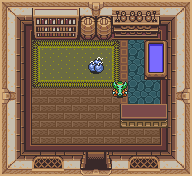
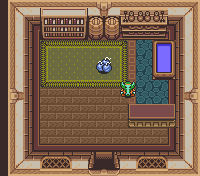
[add]back maps

diff --git a/include/map.h b/include/map.h
@@ -12,18 +12,21 @@
     #include "sprites.h"
     #define MAX_Y 16
     #define MAX_X 30
-    #define TEXTURES_NB 30
+    #define TEXTURES_NB 34
 
-enum {OUT_HOUSE, FIRST_PATH, BATTLE_PATH, SANCTUARY_ENTRY, HOUSE_INTERIOR_MAP,
-SHOP_INTERIOR_MAP};
+enum {OUT_HOUSE, FIRST_PATH, BATTLE_PATH, HOUSE_INTERIOR_MAP, SANCTUARY_ENTRY,
+SHOP_INTERIOR_MAP, DUNGEON_ENTRY_MAP, SOKOBAN_MAP, OUT_SHOP};
 static const char *MAP_PATHS[] = {"maps/out_house.front",
-"maps/first_path.front", "maps/battle_path.front", "maps/sanctuary_entry.front",
-"maps/house_interior.front", "maps/shop_interior.front"};
+"maps/first_path.front", "maps/battle_path.front", "maps/house_interior.front",
+"maps/sanctuary_entry.front", "maps/shop_interior.front",
+"maps/dungeon_entry.front", "maps/sokoban_puzzle.front",
+"maps/out_house.front"};
 enum {GROUND, WALL_UP, WALL_LEFT, WALL_DOWN, WALL_RIGHT, WALL_NO, WALL_SO,
 WALL_SE, WALL_NE, BUSH, CUT_BUSH, GRASS, TREE, ROCK, SIGN, FLOWER, PLANT,
 PATH, CHEST, OPEN_CHEST, HOUSE, HOUSE_INTERIOR, MOVABLE_ROCK, NEUTRAL_TILE,
-SANCTUARY, FENCE, PORTAL_LEFT, PORTAL_RIGHT, BORDER_FENCE, SHOP_INTERIOR};
-static const char TEXT_CHARS[] = " -(_)/oe\\xbgtrsfp=cCHhRnSF;:.$";
+SANCTUARY, FENCE, PORTAL_LEFT, PORTAL_RIGHT, BORDER_FENCE, SHOP_INTERIOR,
+DUNGEON_ENTRY, DUNGEON_UNSEEN_TILE, SOKOBAN_ROOM, PRESSABLE_TILE};
+static const char TEXT_CHARS[] = " -(_)/oe\\xbgtrsfp=cCHhRnSF;:.$&NmO";
 static const char *TILES_PATHS[] = {"tile_sets/ground_tile.png",
 "tile_sets/wall_tiles.png", "tile_sets/wall_tiles.png",
 "tile_sets/wall_tiles.png", "tile_sets/wall_tiles.png",
@@ -37,18 +40,22 @@ static const char *TILES_PATHS[] = {"tile_sets/ground_tile.png",
 "tile_sets/movable_rock.png", "tile_sets/house_unseen.png",
 "tile_sets/sanctuary_entry.png", "tile_sets/fence.png",
 "tile_sets/left_portal.png", "tile_sets/right_portal.png",
-"tile_sets/border_fence.png", "tile_sets/shop_interior.png"};
+"tile_sets/border_fence.png", "tile_sets/shop_interior.png",
+"tile_sets/dungeon_entry.png", "tile_sets/Dungeon_unseen_tile.png",
+"tile_sets/sokoban_room.png", "tile_sets/pressable_tile.png"};
 static const int RECT[][4] = {{0, 16, 16, 0}, {0, 16, 16, 16}, {16, 16, 16, 0},
 {32, 16, 16, 16}, {16, 16, 16, 32}, {0, 16, 16, 0}, {32, 16, 16, 0},
 {32, 16, 16, 32}, {0, 16, 16, 32}, {0, 16, 16, 0}, {0, 16, 16, 16},
 {0, 16, 16, 0}, {0, 80, 64, 0}, {0, 16, 16, 0}, {0, 16, 16, 0}, {0, 16, 16, 0},
-{0, 16, 16, 0}, {0, 16, 16, 0}, {0, 16, 16, 0}, {0, 16, 16, 16}, {0, 96, 96, 0},
-{0, 176, 224, 0}, {0, 16, 16, 0}, {0, 16, 16, 0}, {0, 95, 128, 0},
+{0, 16, 16, 0}, {0, 16, 16, 0}, {0, 16, 16, 0}, {0, 16, 16, 16}, {0, 96, 105, 0},
+{0, 176, 232, 0}, {0, 16, 16, 0}, {0, 16, 16, 0}, {0, 95, 128, 0},
 {0, 16, 16, 0}, {0, 24, 16, 0}, {0, 24, 16, 0}, {0, 32, 16, 0},
-{0, 176, 192, 0}};
-#define SPECIALS__NB 8
+{0, 176, 200, 0}, {0, 237, 257, 0}, {0, 16, 16, 0}, {0, 237, 257, 0},
+{0, 16, 16, 0}};
+#define SPECIALS_NB 12
 static const int SPECIALS[] = {TREE, HOUSE, HOUSE_INTERIOR, SANCTUARY,
-PORTAL_LEFT, PORTAL_RIGHT, BORDER_FENCE, SHOP_INTERIOR};
+PORTAL_LEFT, PORTAL_RIGHT, BORDER_FENCE, SHOP_INTERIOR, DUNGEON_ENTRY,
+MOVABLE_ROCK, SOKOBAN_ROOM, PRESSABLE_TILE};
 
 typedef struct map
 {

diff --git a/include/player.h b/include/player.h
@@ -21,7 +21,10 @@
     #define KEY_TOUCH event.type == sfEvtKeyPressed && event.key.code
 
 static const char *PLAYER_MAP_PATHS[] = {"maps/out_house.back",
-"maps/first_path.back", "maps/battle_path.back", "maps/sanctuary_entry.back"};
+"maps/first_path.back", "maps/battle_path.back", "maps/house_interior.back",
+"maps/sanctuary_entry.back", "maps/shop_interior.back",
+"maps/dungeon_entry.back", "maps/sokoban_puzzle.back",
+"maps/out_house.back"};
 enum {WLEFT, WRIGHT, WUP, WDOWN, HLEFT, HRIGHT, HUP, HDOWN, BOMB, RRUBY};
 static const char PLAYER_TEXT_CHARS[] = "B";
 static const char *PLAYER_PATHS_NAME[] = {"resources/link/player_walk_left.png",
@@ -69,3 +72,4 @@ void draw_player(sfRenderWindow *window, player_t *player);
 int is_aroud_player(player_t *player, int y, int x, char item);
 
 #endif
+

diff --git a/source/main.c b/source/main.c
@@ -30,7 +30,7 @@ static void print_bad_args(int ac)
     ac += '0' - 1;
     write(2, "./my_rpg: bad arguments:", 25);
     write(2, &ac, 1);
-    write(2, "given but 0 is required\nretry with -h\n", 38);
+    write(2, " given but 0 is required\nretry with -h\n", 39);
 }
 
 int main (int ac, char **av)

diff --git a/source/is.c b/source/is.c
@@ -10,7 +10,7 @@
 
 bool is_in_special(int nb)
 {
-    for (int i = 0; i < SPECIALS__NB; i++)
+    for (int i = 0; i < SPECIALS_NB; i++)
         if (SPECIALS[i] == nb)
             return true;
     return false;
